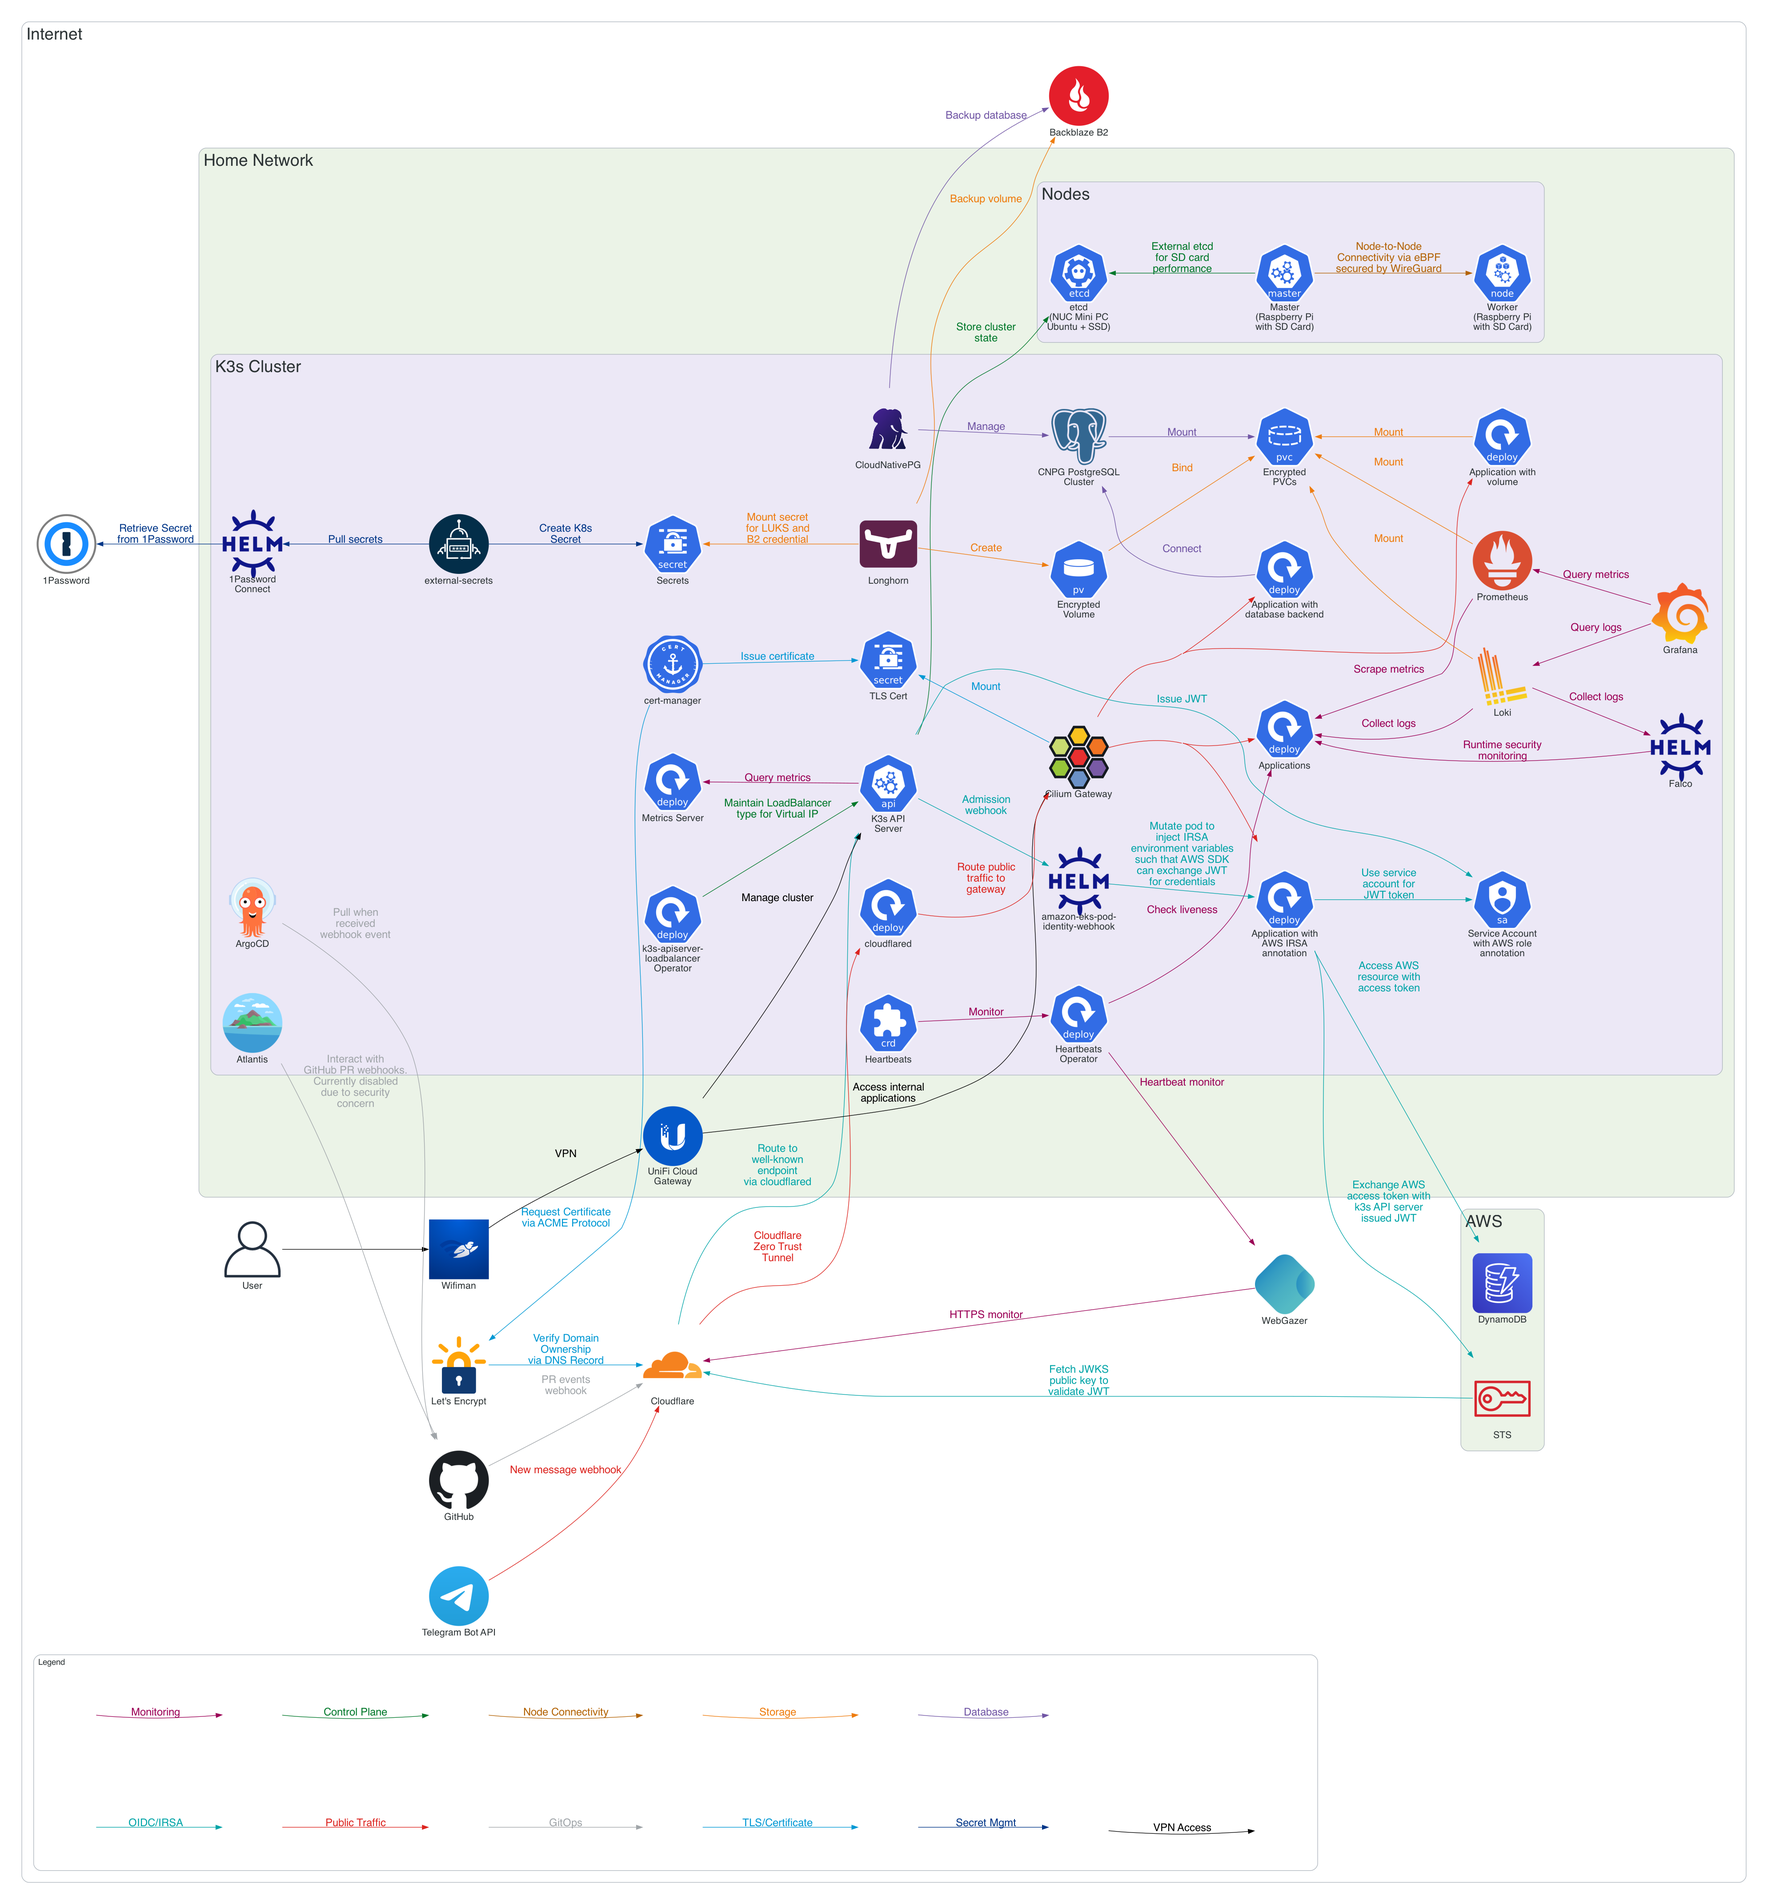
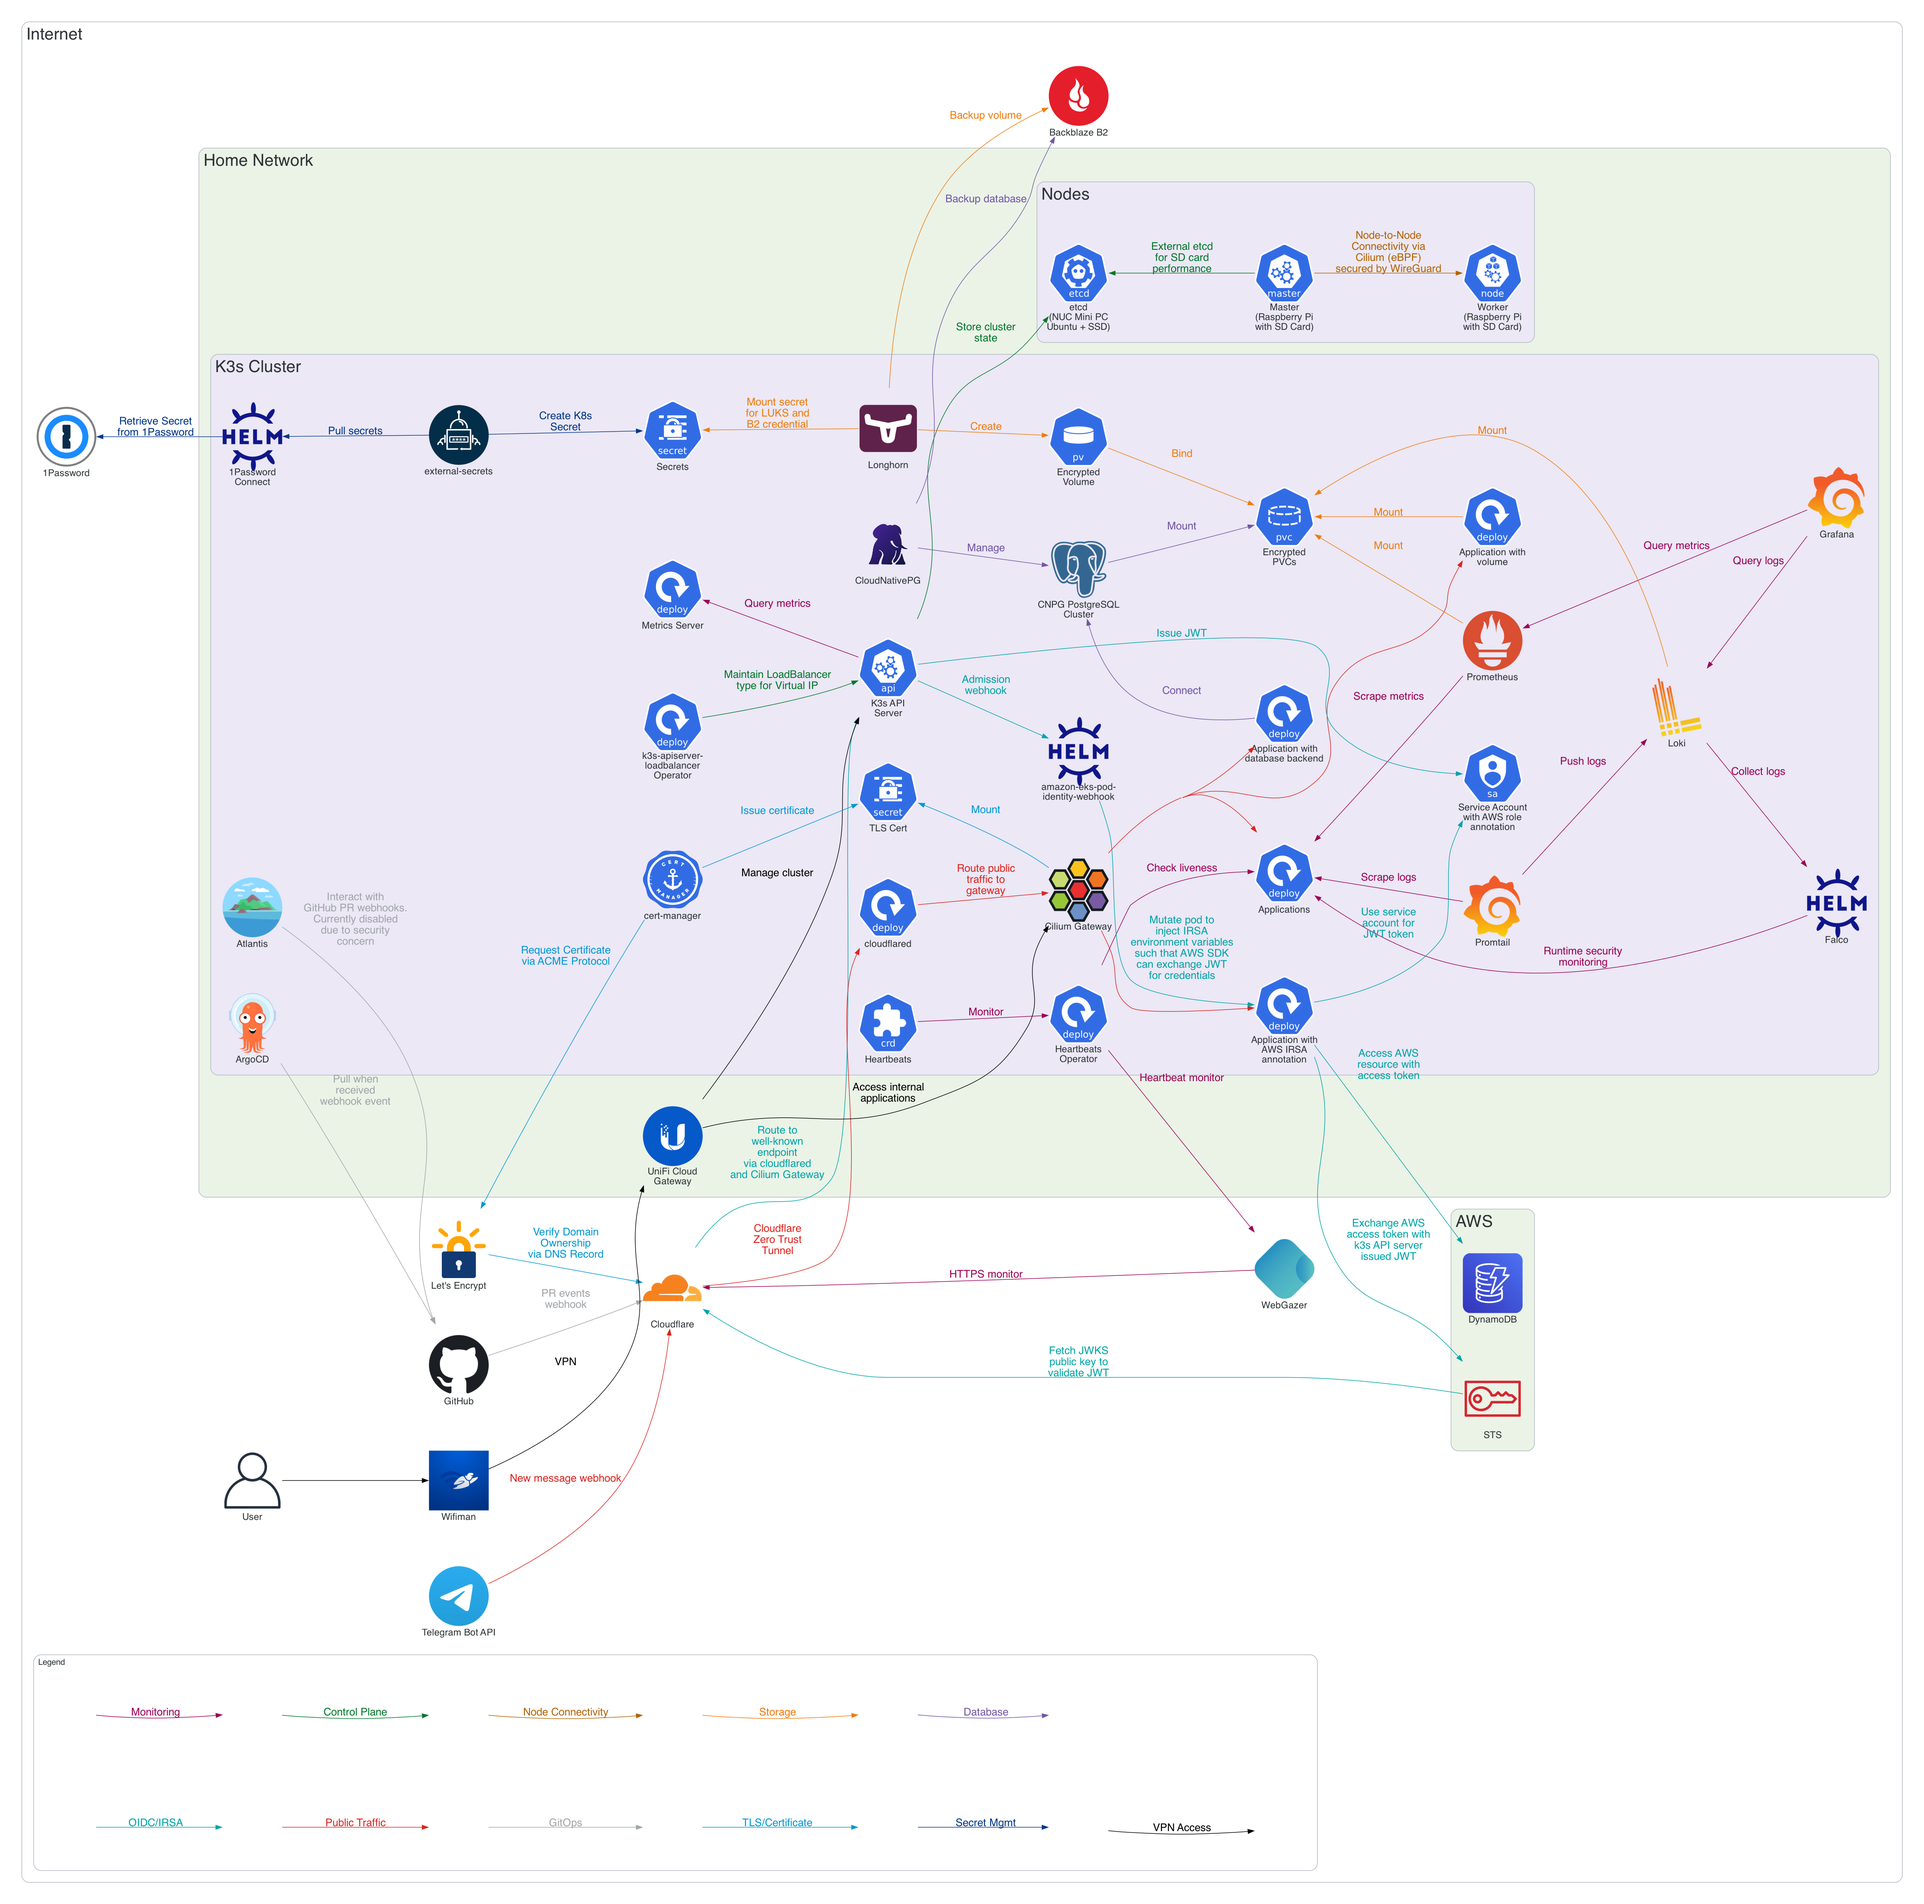
docs: update architecture diagram

diff --git a/diagrams/otaru-architecture.py b/diagrams/otaru-architecture.py
@@ -182,6 +182,7 @@ with Diagram(
                 # Monitoring
                 grafana = Grafana("Grafana")
                 prometheus = Prometheus("Prometheus")
+                promtail = Grafana("Promtail")
                 loki = Loki("Loki")
                 metrics_server = Deployment("Metrics Server")
                 heartbeats_operator = Deployment("Heartbeats\nOperator")
@@ -317,7 +318,8 @@ with Diagram(
 
     # Monitoring
     applications << edge("Scrape metrics", colour=COLOUR_MONITORING) << prometheus
-    applications << edge("Collect logs", colour=COLOUR_MONITORING) << loki
+    applications << edge("Scrape logs", colour=COLOUR_MONITORING) << promtail
+    promtail >> edge("Push logs", colour=COLOUR_MONITORING) >> loki
     (
         applications
         << edge("Runtime security\nmonitoring", colour=COLOUR_MONITORING)
@@ -359,7 +361,7 @@ with Diagram(
     (
         master
         >> edge(
-            "Node-to-Node\nConnectivity via eBPF\nsecured by WireGuard",
+            "Node-to-Node\nConnectivity via\nCilium (eBPF)\nsecured by WireGuard",
             colour=COLOUR_NODE,
         )
         >> worker
@@ -425,7 +427,10 @@ with Diagram(
     )
     (
         cloudflare
-        >> edge("Route to\nwell-known\nendpoint\nvia cloudflared", colour=COLOUR_OIDC)
+        >> edge(
+            "Route to\nwell-known\nendpoint\nvia cloudflared\nand Cilium Gateway",
+            colour=COLOUR_OIDC,
+        )
         >> api_server
     )
     (

diff --git a/AGENTS.md b/AGENTS.md
@@ -169,6 +169,28 @@ Use **action initiator** style for arrow directions - the arrow points FROM the 
 Action initiator style makes it clear WHO is performing the action, which aligns with how systems are typically described
 (e.g., "ArgoCD pulls from GitHub" not "GitHub is pulled by ArgoCD").
 
+### Icon Selection
+
+When adding components to diagrams, follow this priority for icons:
+
+#### 1. Prefer built-in icons from the diagrams library
+
+- Check if the component has a built-in icon (e.g., `from diagrams.onprem.monitoring import Grafana`)
+- Reuse similar built-in icons when appropriate (e.g., use `Grafana` icon for Promtail)
+
+#### 2. Refer to diagrams/README.md for custom icon sources
+
+- Check the Custom Icons table to see where existing icons come from
+- Common sources include Dashboard Icons (Apache 2.0), CNCF Artwork, and official project repositories
+
+#### 3. Search the internet as a last resort
+
+- Look for official logos from project websites or repositories
+- Ensure proper licensing before using
+- Document the source and licence in diagrams/README.md
+
+**Important**: Avoid creating unnecessary custom icon files. Reusing built-in icons is preferred over downloading new ones.
+
 ## Project Conventions
 
 ### Consistency is Key
